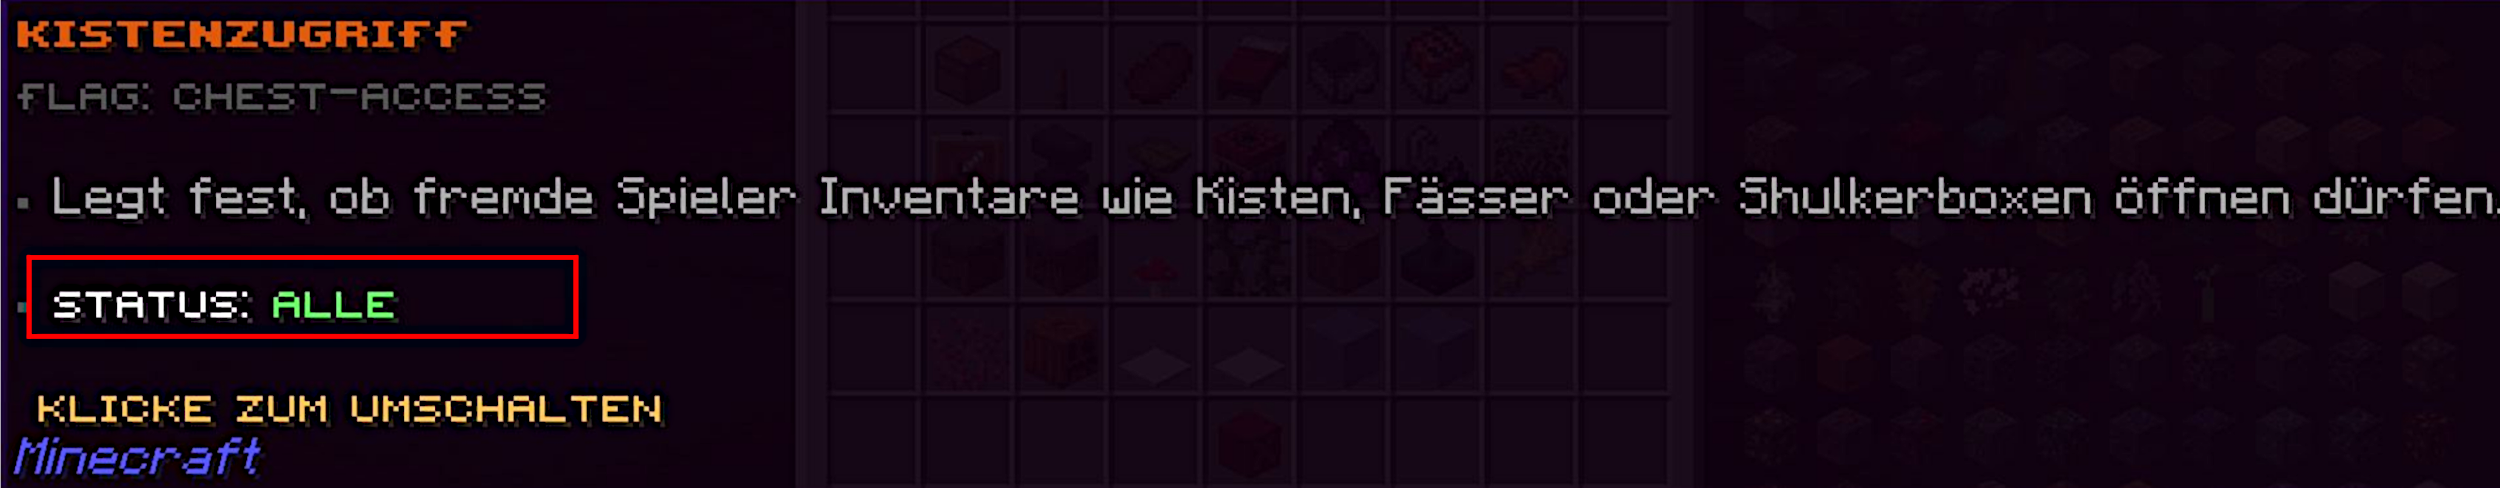
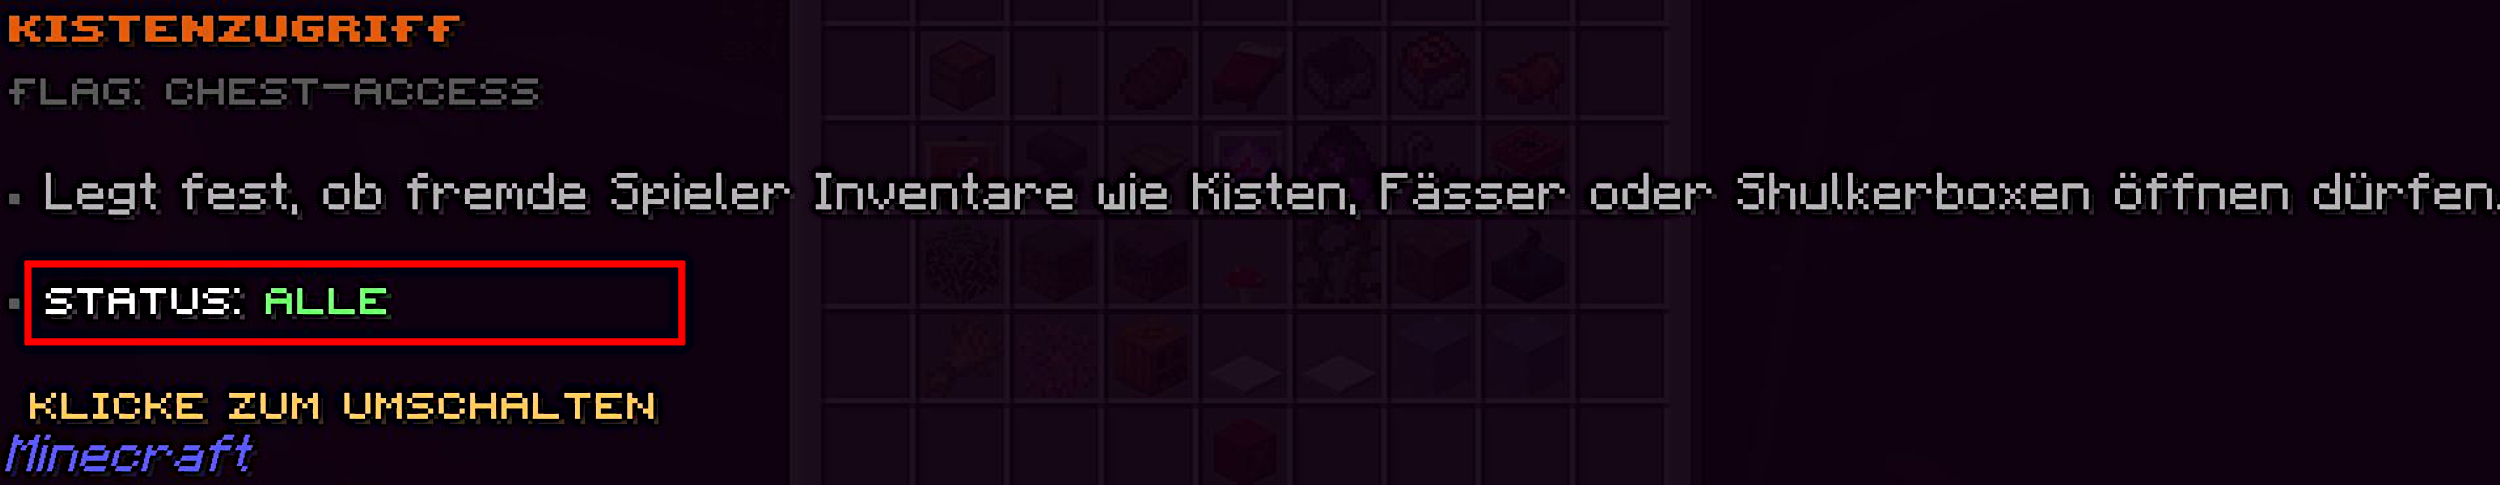
fix: update images

diff --git a/Writerside/topics/survival-server/plots/flags/flags/plot-edit-flags.md b/Writerside/topics/survival-server/plots/flags/flags/plot-edit-flags.md
@@ -18,8 +18,9 @@
    ![plot flags](plot-flags.png) {border-effect="rounded" thumbnail="false" width="480" width="480"}
 
 5. Um den Status eines Flags zu ändern, führe einen <shortcut>Linksklick</shortcut> aus.
-   ![chest access members](plot-chest-access-members.png) {border-effect="rounded" thumbnail="false" width="480"}
-   ![chest access all](plot-chest-access-all.png) {border-effect="rounded" thumbnail="false" width="480"} 
+   ![chest access members](plot-chest-access-members.png) {border-effect="rounded" thumbnail="false" width="680"}
+
+   ![chest access all](plot-chest-access-all.png) {border-effect="rounded" thumbnail="false" width="680"} 
 
 ### Folgende Flags kannst du bearbeiten {collapsible="true" default-state="collapsed" id="plot-flags"}
 
